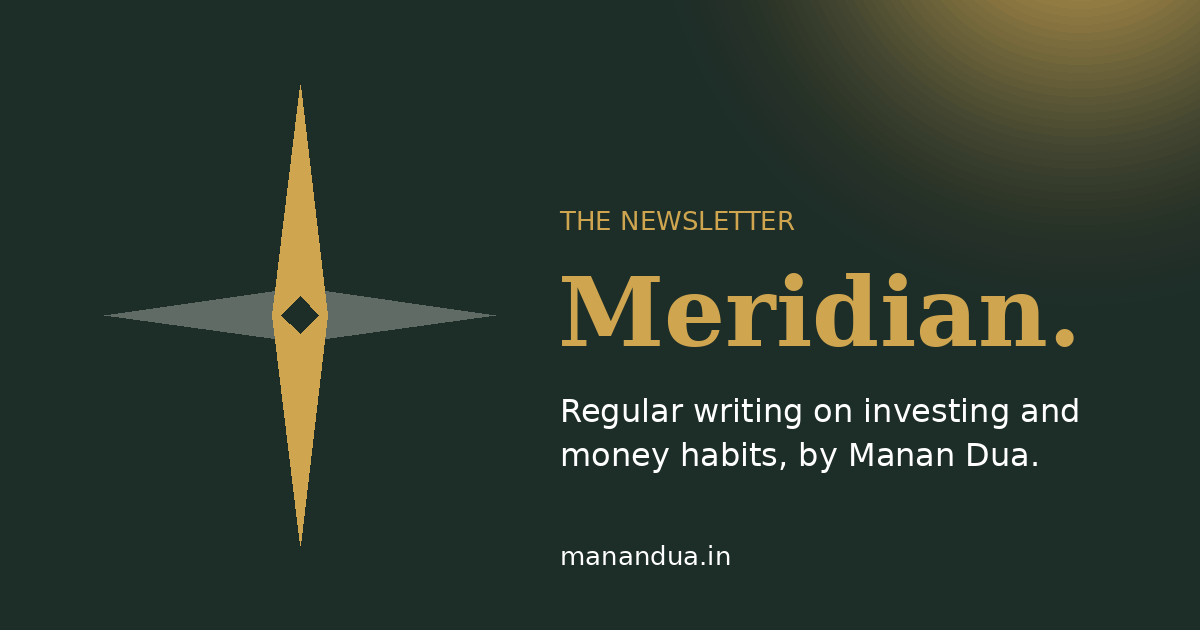
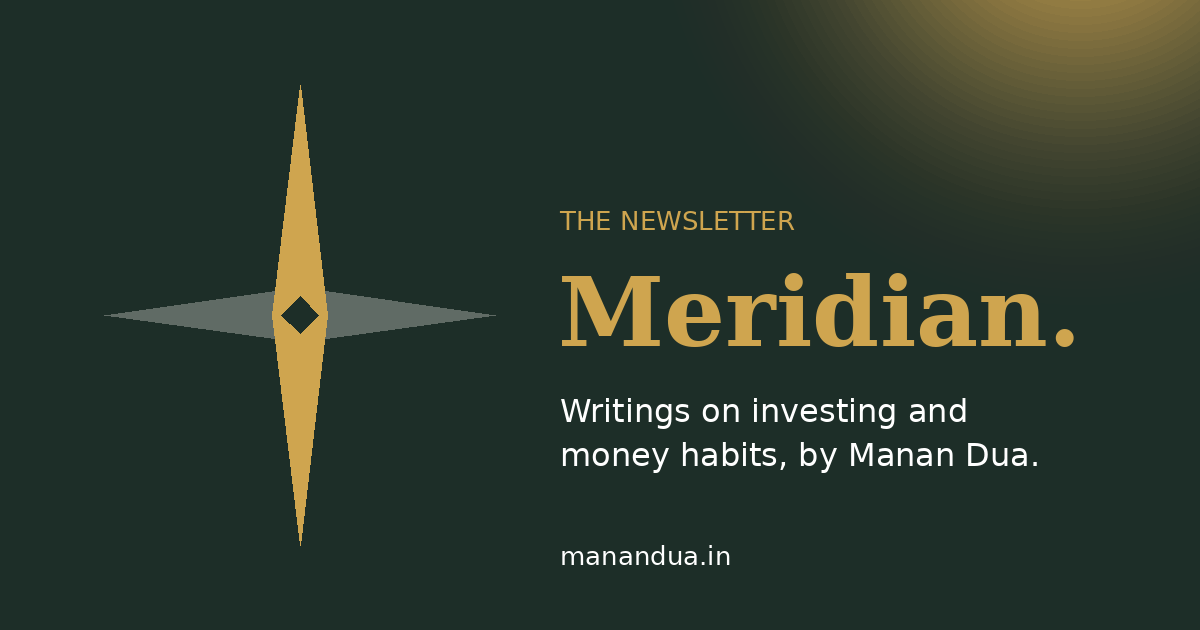
Add files via upload

Changed region(s): [[0.4625, 0.6333, 0.925, 0.6937]]

diff --git a/meridian.html b/meridian.html
@@ -4,9 +4,9 @@
 <meta charset="UTF-8">
 <meta name="viewport" content="width=device-width, initial-scale=1.0">
 <title>Meridian — The Newsletter by Manan Dua</title>
-<meta name="description" content="Regular writing on investing, money habits, and the things that actually matter for your wealth journey. Written personally by Manan Dua.">
+<meta name="description" content="Writings on investing, money habits, and the things that actually matter for your wealth journey. Written personally by Manan Dua.">
 <meta property="og:title" content="Meridian — The Newsletter by Manan Dua">
-<meta property="og:description" content="Regular writing on investing, money habits, and the things that actually matter for your wealth journey. Subscribe free.">
+<meta property="og:description" content="Writings on investing, money habits, and the things that actually matter for your wealth journey. Subscribe free.">
 <meta property="og:type" content="website">
 <meta property="og:url" content="https://manandua.in/meridian.html">
 <meta property="og:image" content="https://manandua.in/meridian-preview.png">
@@ -81,6 +81,7 @@ a{color:inherit;text-decoration:none;}
 .toast.error{border-left-color:#c0654a;}
 .toast button{margin-left:auto;background:none;border:none;color:rgba(255,255,255,0.5);font-size:18px;line-height:1;cursor:pointer;padding:0 2px;}
 
+@media(max-width:768px){.hero p{font-weight:400;}}
 @media(max-width:560px){
   .hero{padding:48px 20px 104px;}
   .hero h1{font-size:50px;}
@@ -104,7 +105,7 @@ a{color:inherit;text-decoration:none;}
     </svg>
     <div class="ey">The Newsletter</div>
     <h1>Meridian.</h1>
-    <p>Regular writing on investing, money habits, and the things that actually matter for your wealth journey. Written personally by Manan Dua.</p>
+    <p>Writings on investing, money habits, and the things that actually matter for your wealth journey. Written personally by Manan Dua.</p>
   </div>
 </header>
 
